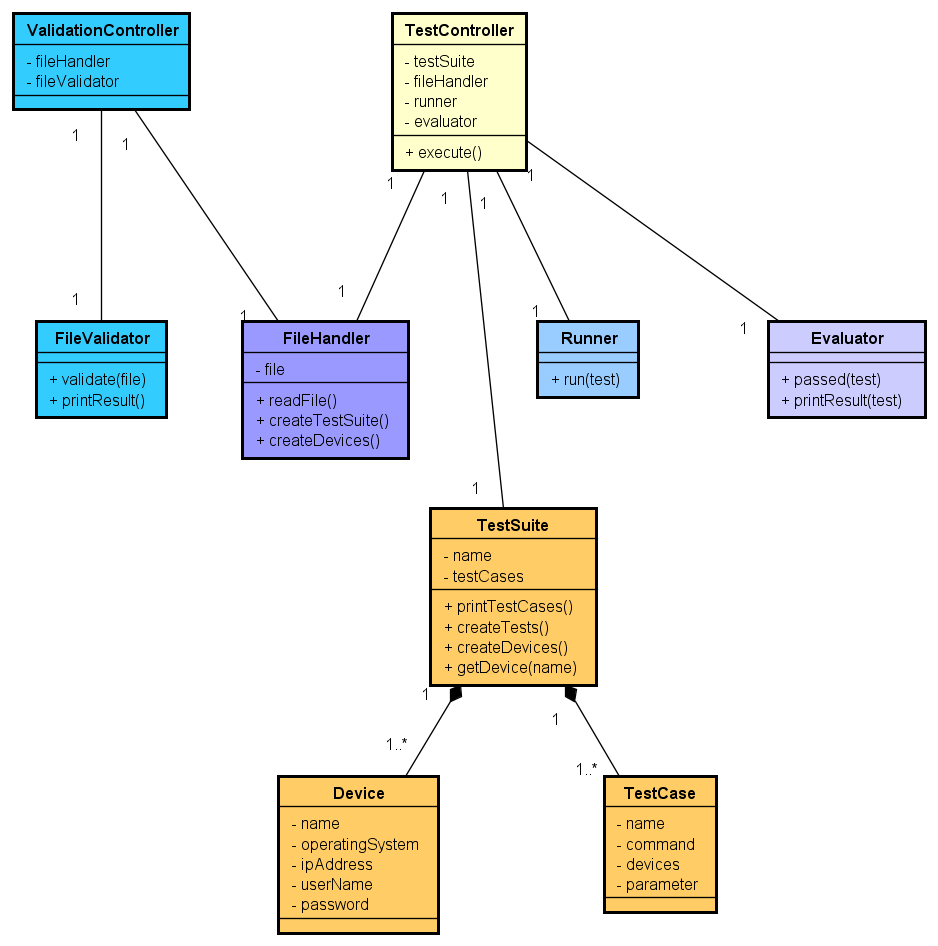
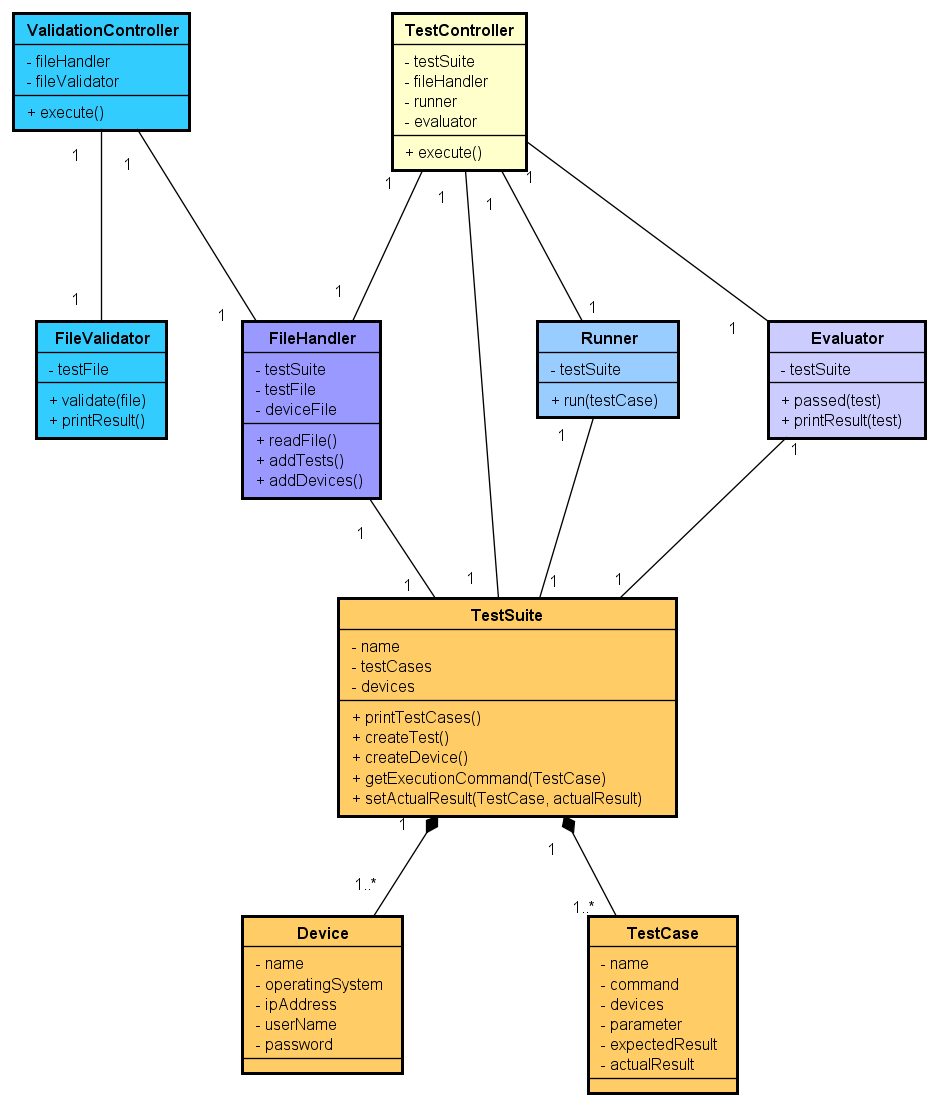
Klassenstruktur

diff --git a/doc/02_design/Architektur.tex b/doc/02_design/Architektur.tex
@@ -111,13 +111,153 @@ Todo Ref zu Automation Plattform und anderen Dokumenten
 \end{description}
 \newpage
 \section{Systemübersicht}
+In der nachfolgenden Abbildung ist eine Darstellung des Systems ersichtlich. Der User muss Unit Tests und Devices mittels YAML File erfassen. Diese Files sind beim Start der Applikation mittels Parameter mitzugeben. Die Applikation validiert diese Files, erstellt benötigte Objekte und führt die Kommandos auf der zugrundeliegenden SaltStack Installation durch. SaltStack wird mit einem eigenen Testing Modul ausgestattet, sodass die richtigen Kommandos auf die dafür vorgesehenen Devices absetzt. SSH oder HTTP Verbindungen werden von SaltStack aufgebaut. Die eigene Modulentwicklung stellt sicher, dass die Outputs in benötigter Form (JSON) der Applikation zurückgegeben werden. \\
+
+\noindent \includegraphics[width=1.00\textwidth]{./pictures/systemuebersicht.png} \\
+
+\noindent Die zurückgegebenen Werte von SaltStack können nun mit den vom User getroffenen Annahmen verglichen und ausgewertet werden. Es kann nun festgestellt werden ob der Test bestanden wurde oder fehlgeschlagen ist. 
 \newpage
 \section{Klassenstruktur}
+\subsection{Klassendiagramm}
+\includegraphics[width=1.02\textwidth]{./pictures/classdiagram.png}
+\subsection{Klassenbeschreibungen}
+\minisec{TestController}
+Der TestController wird von der Main Methode gestartet, sofern die vorgesehenen Parameter mitgegeben wurden. Der TestController erzeugt im Konstruktor die benötigten Objekte und speichert sie als Referenz ab. Diese Klasse übernimmt die Steuerung und den Ablauf für die Erstellung, Durchführung und Überprüfung der Tests
+\noindent \begin{table}[H]
+\centering
+    \begin{tabular}{@{}l p{12cm} @{}}\toprule    
+    {Eigenschaft} & {Beschreibung}\\ \midrule
+    testSuite & Referenz auf das TestSuite Objekt  \\       
+    fileHandler & Referenz auf das FileHandler Objekt \\
+    runner & Referenz auf das Runner Objekt\\
+    evaluator & Referenz auf das Evaluator Objekt\\
+    execute() & Methode, welche sämtlichen Operationen in der richtigen Reihenfolge auf die referenzierten Objekte durchführt\\
+    \bottomrule
+    \end{tabular}
+\end{table}
+
+\minisec{ValidationController}
+Der ValidationController wird von der Main Methode gestartet, sofern die vorgesehenen Parameter mitgegeben wurden. Der TestController erzeugt im Konstruktor die benötigten Objekte und speichert sie als Referenz ab. Diese Klasse übernimmt die Steuerung und den Ablauf für die Erstellung, Durchführung und Validierung des TestFiles.
+\noindent \begin{table}[H]
+\centering
+    \begin{tabular}{@{}l p{12cm} @{}}\toprule    
+    {Eigenschaft} & {Beschreibung}\\ \midrule      
+    fileHandler & Referenz auf das FileHandler Objekt \\
+    fileValidator & Referenz auf das FileValidator Objekt\\
+    execute() & Methode, welche sämtlichen Operationen in der richtigen Reihenfolge auf die referenzierten Objekte durchführt\\
+    \bottomrule
+    \end{tabular}
+\end{table}
+
+\minisec{FileValidator}
+Der FileValidator validiert das mitgegebene YAML Testfile auf Gültigkeit.
+\noindent \begin{table}[H]
+\centering
+    \begin{tabular}{@{}l p{12cm} @{}}\toprule    
+    {Eigenschaft} & {Beschreibung}\\ \midrule      
+    testFile & YAML Testfile als Dictionary \\
+    validate() & Validiert das mitgelieferte YAML File\\
+    printResult() & Gibt das Resultat der Validierung aus\\
+    \bottomrule
+    \end{tabular}
+\end{table}
+
+\minisec{FileHandler}
+der FileHandler wird vom TestController erzeugt und erhält das TestSuite Objekt von diesem. Diese Klasse liest die YAML Files ein, speichert sie in ein Dictionary.
+\noindent \begin{table}[H]
+\centering
+    \begin{tabular}{@{}l p{12cm} @{}}\toprule    
+    {Eigenschaft} & {Beschreibung}\\ \midrule
+    testSuite & Referenz auf das TestSuite Objekt  \\
+    testFile & Dictionary Repräsentation des YAML Test Files\\
+    deviceFile & Dictionary Repräsentation des YAML Device Files\\    
+    readFile() & Liest vom User mitgegebenes File ein und speichert es in die Filevariable \\
+    addTests() & Iteriert durch das testFile Dictionary und erstellt Tests auf dem testSuite Objekt \\
+    addDevices() & Iteriert durch das deviceFile Dictionary und erstellt Devices auf dem testSuite Objekt\\
+    \bottomrule
+    \end{tabular}
+\end{table}
+
+\minisec{Runner}
+Die Runner Klasse führt die TestCases der TestSuite auf SaltStack aus.
+\noindent \begin{table}[H]
+\centering
+    \begin{tabular}{@{}l p{12cm} @{}}\toprule    
+    {Eigenschaft} & {Beschreibung}\\ \midrule      
+    testSuite & Referenz auf das TestSuite Objekt \\
+    run() & Führt die Tests der testSuite über SaltStack aus\\
+    \bottomrule
+    \end{tabular}
+\end{table}
+
+\minisec{Evaluator}
+Die Evaluator Klasse vergleicht Annahmen und erzielte Resultate der Tests und wertet/gibt diese aus.
+\noindent \begin{table}[H]
+\centering
+    \begin{tabular}{@{}l p{12cm} @{}}\toprule    
+    {Eigenschaft} & {Beschreibung}\\ \midrule      
+    testSuite & Referenz auf das TestSuite Objekt \\
+    passed() & Überprüft Annahme und erzieltes Resultat von Tests\\
+    printResult() & Gibt das Ergebnis des Tests aus
+    \bottomrule
+    \end{tabular}
+\end{table}
+
+\minisec{TestSuite}
+Die TestSuite Klasse beinhaltet sämtliche TestCases und die verwendeten Devices.
+\noindent \begin{table}[H]
+\centering
+    \begin{tabular}{@{}l p{12cm} @{}}\toprule    
+    {Eigenschaft} & {Beschreibung}\\ \midrule      
+    name & Name für die TestSuite \\
+    testCases & Liste von TestCase Objekten\\
+    devices & Liste von Device Objekten\\
+    printAllTestCases() & Gibt alle TestCases der TestSuite aus\\
+    createTestCase() & Erzeugt ein TestCase Objekt und fügt es der TestSuite hinzu\\
+    createDevice() & Erzeugt ein Device Objekt und fügt es der TestSuite hinzu\\
+    getExecutionCommand() & Formt ein für SaltStack ausführbares Kommando eines TestCases und gibt dieses zurück\\
+    setActualResult() & Setzt ein erzieltes Resultat auf einem TestCase\\
+    \bottomrule
+    \end{tabular}
+\end{table}
+
+\minisec{Device}
+Die Device Klasse beinhaltet sämtliche Informationen eines Devices.
+\noindent \begin{table}[H]
+\centering
+    \begin{tabular}{@{}l p{12cm} @{}}\toprule    
+    {Eigenschaft} & {Beschreibung}\\ \midrule      
+    name & Name für das Device \\
+    operatingSystem & Angabe des zugrundeliegenden Betriebssystems\\
+    ipAddress & IP Adresse des Devices\\
+    userName & Username fürs Login\\
+    password & Passwort fürs Login\\
+    \bottomrule
+    \end{tabular}
+\end{table}
+
+\minisec{TestCase}
+Die Device Klasse beinhaltet sämtliche Informationen eines Devices.
+\noindent \begin{table}[H]
+\centering
+    \begin{tabular}{@{}l p{12cm} @{}}\toprule    
+    {Eigenschaft} & {Beschreibung}\\ \midrule      
+    name & Name für den TestCase \\
+    command & Das zu verwendende Kommando im SaltStack Modul\\
+    devices & Verwendetes Device\\
+    parameter & Zusatzparameter\\
+    expectedResult & Resultatannahme des Users\\
+    actualResult & Erzieltes Resultat des TestCases\\
+    print() & Gibt den aktuellen TestCase aus\\
+    \bottomrule
+    \end{tabular}
+\end{table}
+
 \newpage
 \section{Logische Architektur}
 \begin{figure} [H]
 	\begin{center}
-	\includegraphics[width=0.90\textwidth]{./pictures/architektur.png}
+	\includegraphics[width=0.99\textwidth]{./pictures/architektur.png}
 	\label{Bild Referenz}
 	\end{center}
 \end{figure}
